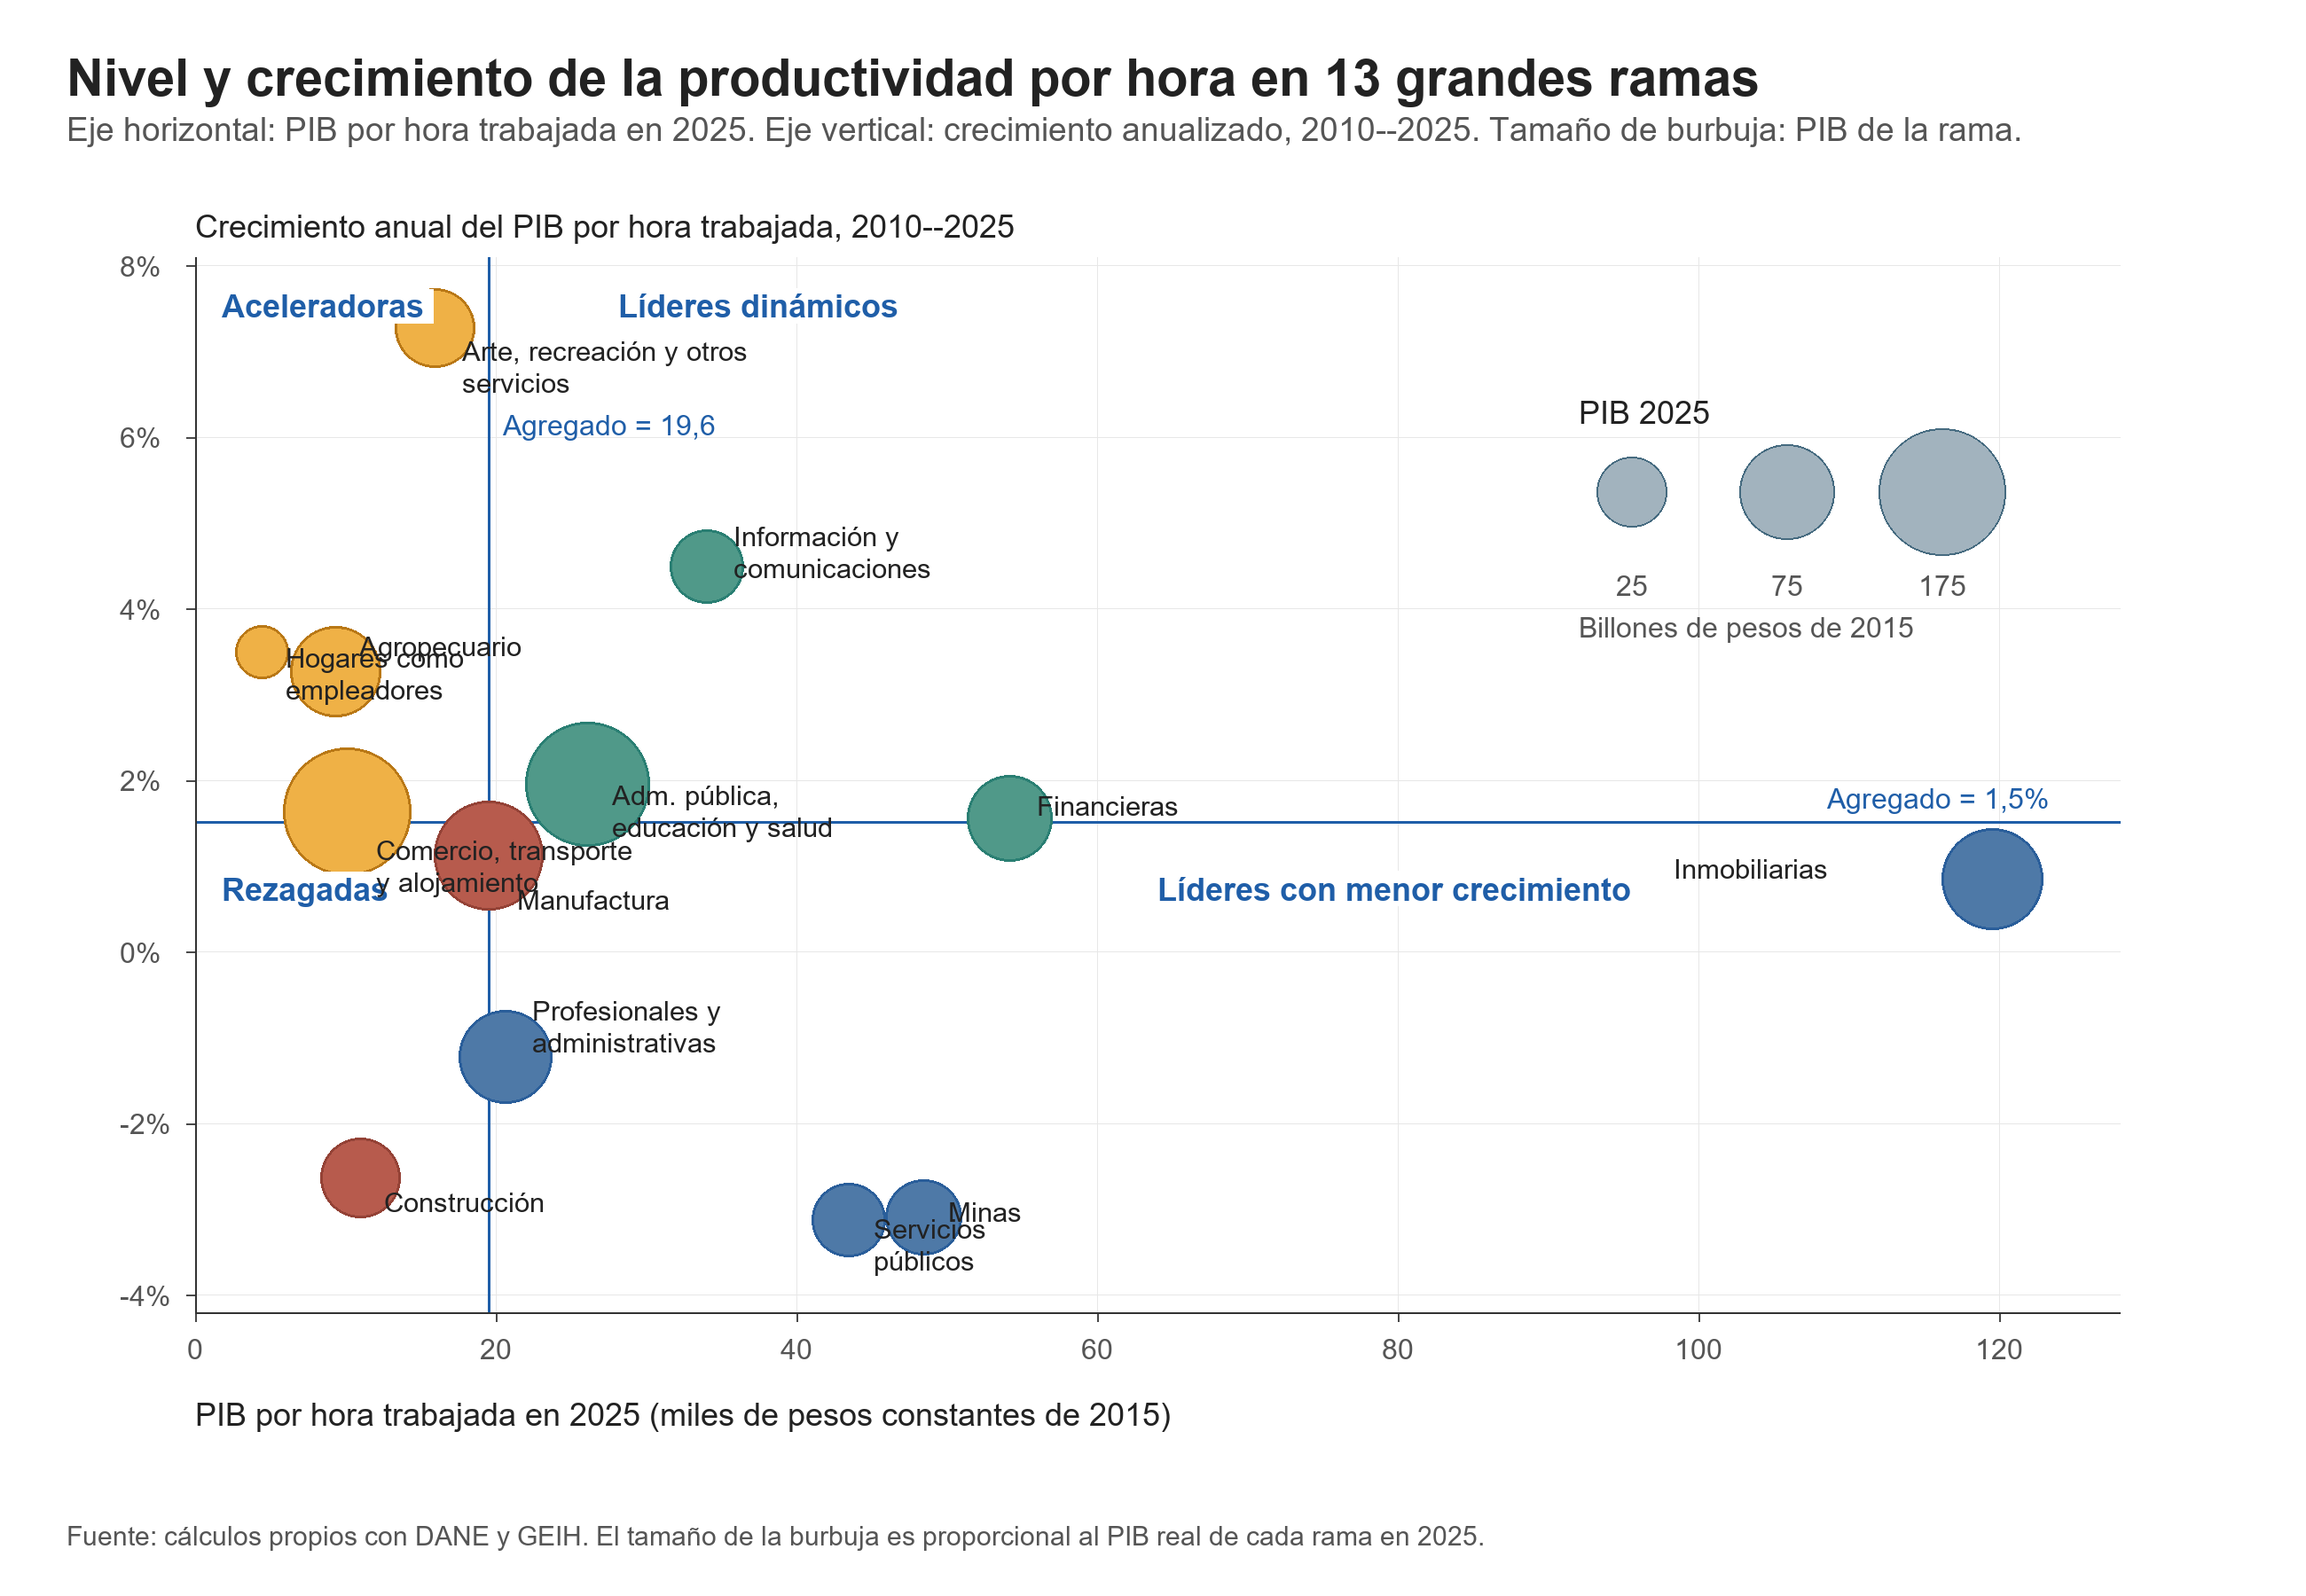
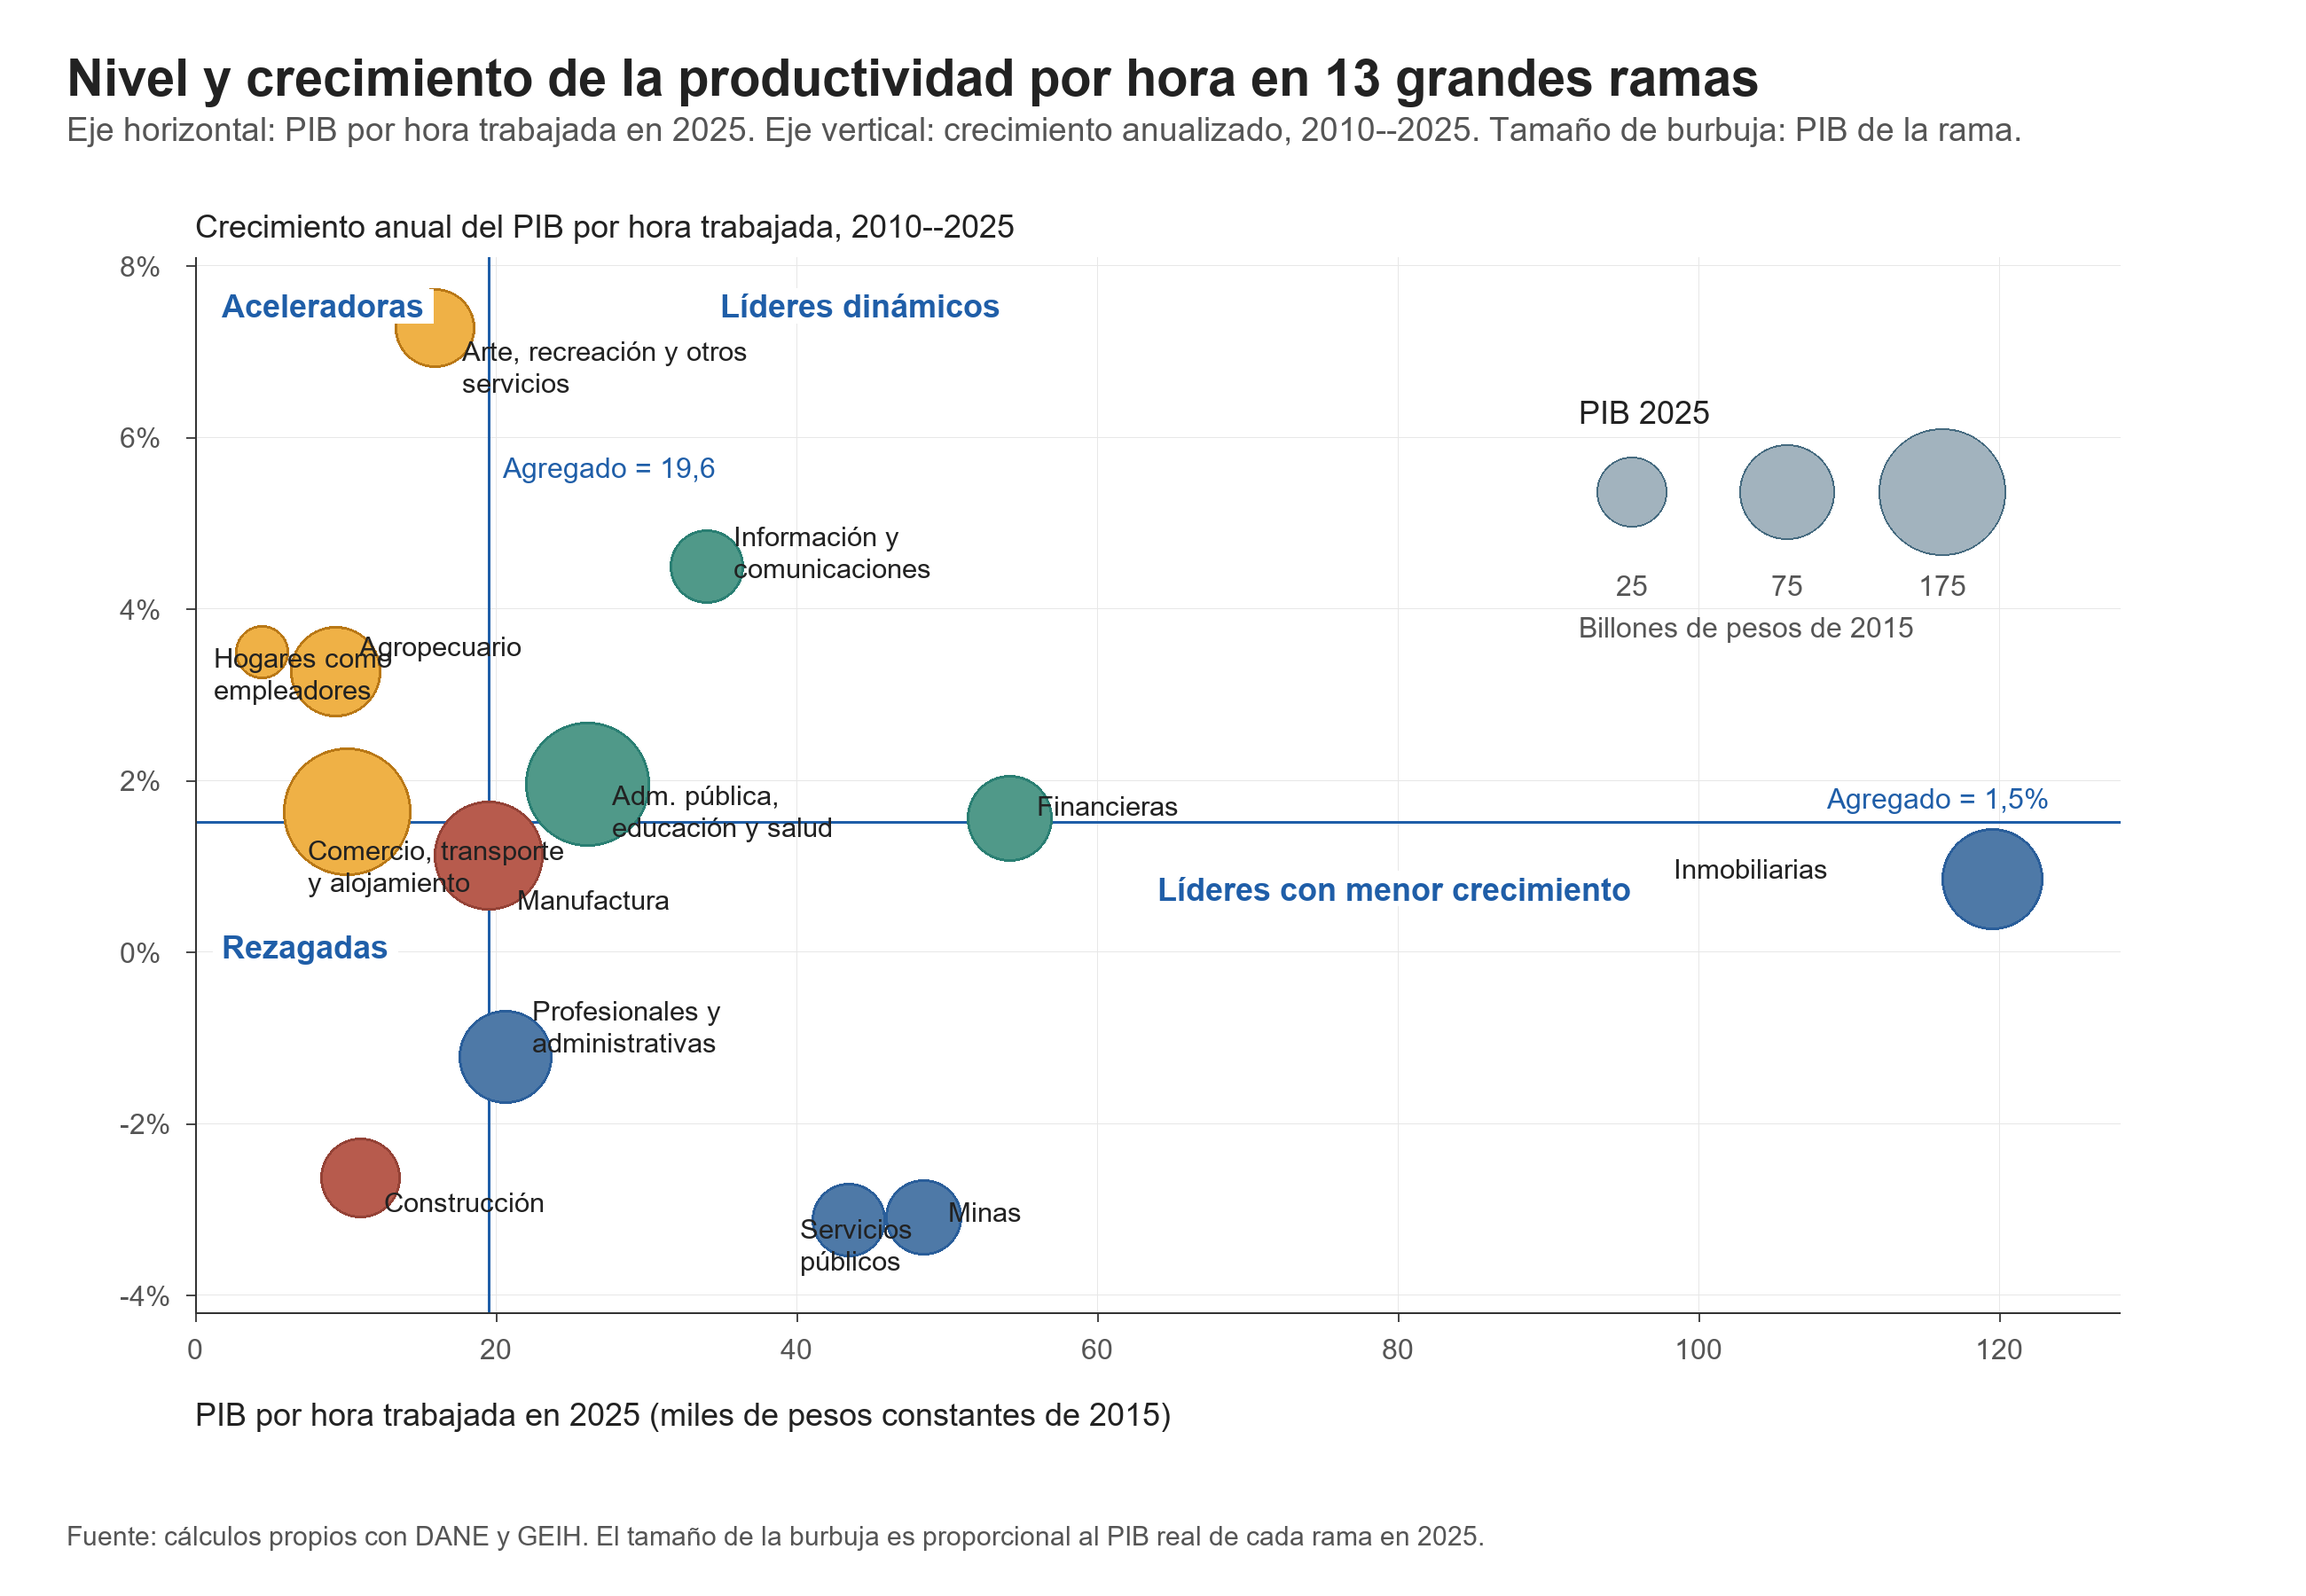
Adjust bubble chart label placement

diff --git a/Code/create_informe01_bubble_quadrants.py b/Code/create_informe01_bubble_quadrants.py
@@ -182,7 +182,7 @@ def main() -> None:
     draw.line((left, top, left, bottom), fill="#333333", width=2)
     draw.line((left, bottom, right, bottom), fill="#333333", width=2)
 
-    draw.text((x_line + 15, top + 172), f"Agregado = {fmt_num_es(agg_level, 1)}", fill=blue, font=tick_font)
+    draw.text((x_line + 15, top + 220), f"Agregado = {fmt_num_es(agg_level, 1)}", fill=blue, font=tick_font)
     draw.text((right - 330, y_line - 45), f"Agregado = {fmt_num_es(agg_growth, 1)}%", fill=blue, font=tick_font)
 
     for _, row in data.sort_values("pib_billones", ascending=False).iterrows():
@@ -201,24 +201,24 @@ def main() -> None:
         draw.text((x, y), text, fill=blue, font=quadrant_font)
 
     draw_quadrant_label("Aceleradoras", left + 30, top + 35)
-    draw_quadrant_label("Líderes dinámicos", x_line + 145, top + 35)
-    draw_quadrant_label("Rezagadas", left + 30, y_line + 55)
+    draw_quadrant_label("Líderes dinámicos", x_line + 260, top + 35)
+    draw_quadrant_label("Rezagadas", left + 30, y_line + 120)
     draw_quadrant_label("Líderes con menor crecimiento", x_pos(64), y_line + 55)
 
     offsets = {
         "A": (26, -46, 230),
         "B": (28, -24, 180),
         "C": (32, 32, 220),
-        "D+E": (28, -8, 220),
+        "D+E": (-55, -8, 220),
         "F": (26, 10, 190),
-        "G+H+I": (32, 26, 300),
+        "G+H+I": (-45, 26, 300),
         "J": (30, -52, 300),
         "K": (30, -32, 180),
         "L": (-360, -30, 260),
         "M+N": (30, -70, 310),
         "O+P+Q": (28, -6, 320),
         "R+S": (30, 8, 360),
-        "T": (26, -12, 230),
+        "T": (-55, -12, 230),
     }
     for _, row in data.iterrows():
         x, y = x_pos(row["level_hour"]), y_pos(row["growth_hour"])
